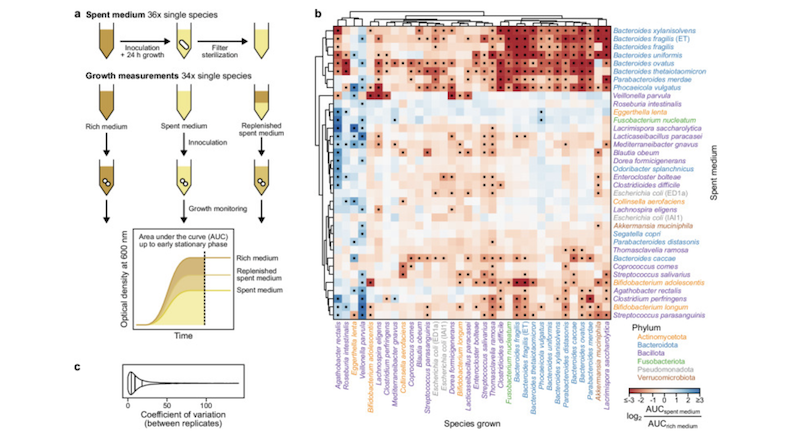
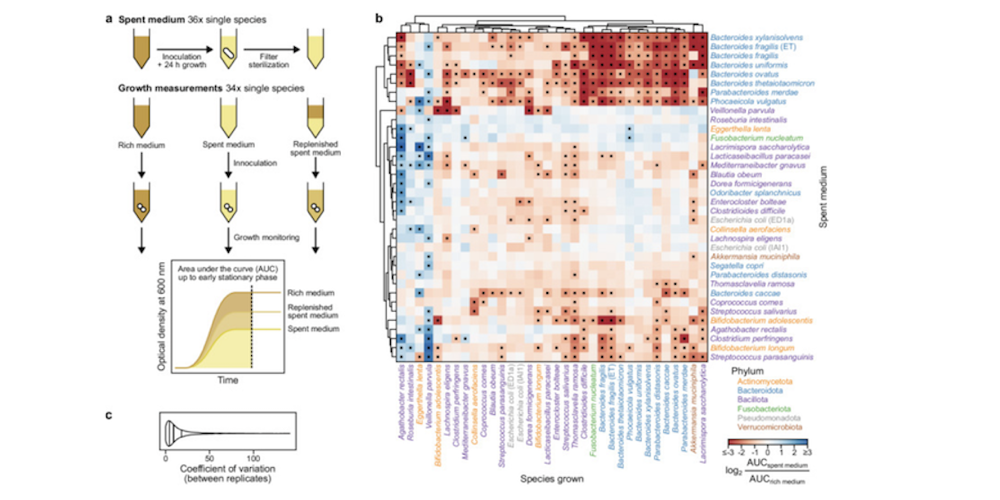
Tweaks to images and text
changes for consistency in formatting (image, capitalisation, spelling), and also shortened title and descriptions

diff --git a/content/english/highlights/growth_interaction_mapping.md b/content/english/highlights/growth_interaction_mapping.md
@@ -1,10 +1,10 @@
 ---
-title: Mapping Growth Interactions in the Human Gut Microbiome Reveals Key Roles for Extracellular Vesicles and Environmental pH
+title: Investigating growth interactions in the human gut microbiome
 date: 2026-09-24
-summary: Systematic profiling of human gut bacteria reveals predominantly inhibitory growth interactions while identifying extracellular vesicles and pH modulation as mechanisms that can promote the growth of specific microbial species.
+summary: Systematic profiling of human gut bacteria reveals predominantly inhibitory growth interactions, although some factors did promote growth.
 banner: /highlights/banners/growth_interaction.png
 banner_large: /highlights/banners/growth_interaction.png
-banner_caption: "Figure 1 (a,b,c) of Buyanbadrakh et al. (2026)"
+banner_caption: "Figure 1 from Buyanbadrakh et al. (2026)"
 highlights_topics: [Infectious diseases]
 tags:
   [
@@ -22,11 +22,11 @@ tags:
 images: [/highlights/banners/growth_interaction.png]
 ---
 
-The human gut microbiome is a complex microbial ecosystem in which hundreds of bacterial species interact with one another and their surrounding environment. These interactions can determine which species successfully colonize the gut and influence the stability and resilience of the microbial community. Bacteria can compete for nutrients, release inhibitory compounds, exchange metabolites, or modify environmental conditions such as pH. Understanding these interactions is therefore important for predicting microbiome composition and, ultimately, developing approaches to manipulate microbial communities.
+The human gut microbiome is a complex microbial ecosystem in which hundreds of bacterial species interact with one another and their surrounding environment. These interactions can determine which species successfully colonise the gut and influence the stability and resilience of the microbial community. Bacteria can compete for nutrients, release inhibitory compounds, exchange metabolites, or modify environmental conditions, such as pH. Understanding these interactions is therefore important for predicting microbiome composition and, ultimately, developing approaches to manipulate microbial communities.
 
-[Buyanbadrakh _et al._ (2026)](https://www.nature.com/articles/s41467-026-76526-z) systematically investigated growth interactions among 36 representative bacterial strains from the human gut microbiome, spanning six major bacterial phyla. The researchers used a spent-medium approach, in which each bacterial strain was first grown for 24 hours before the cell-free spent medium was collected. Each strain was subsequently grown in the spent medium produced by every other strain, and bacterial growth was monitored for 48 hours by measuring optical density. This resulted in a large-scale dataset comprising 1,224 binary growth interactions.
+[Buyanbadrakh _et al._ (2026)](https://www.nature.com/articles/s41467-026-76526-z) systematically investigated growth interactions among 36 representative bacterial strains from the human gut microbiome, spanning six major bacterial phyla. A spent-medium approach was used, in which each bacterial strain was first grown for 24 hours before the cell-free spent medium was collected. Each strain was subsequently grown in the spent medium produced by every other strain, and bacterial growth was monitored for 48 hours by measuring optical density. This resulted in a large-scale dataset comprising 1,224 binary growth interactions.
 
-The interaction map revealed that inhibitory interactions were considerably more common than growth-promoting interactions. Using a two-fold change in growth as the threshold, 307 interactions (25.1%) were inhibitory, whereas only 51 (4.2%) promoted bacterial growth. When nutrients were replenished in the spent medium, inhibitory interactions decreased more than eight-fold, from 307 to 38. This suggests that many negative interactions arise from nutrient depletion or environmental changes caused by bacterial growth rather than from the production of specific antimicrobial compounds. In contrast, nearly half of the growth-promoting interactions persisted after nutrient replenishment, suggesting that metabolic cross-feeding may contribute to some positive interactions.
+The interaction map revealed that inhibitory interactions were considerably more common than growth-promoting interactions. Using a two-fold change in growth as the threshold, 307 interactions (25.1%) were inhibitory, whereas only 51 (4.2%) promoted bacterial growth. When nutrients were replenished in the spent medium, inhibitory interactions decreased more than eight-fold, from 307 to 38. This suggests that many negative interactions arise from nutrient depletion or environmental changes caused by bacterial growth, rather than from the production of specific antimicrobial compounds. In contrast, nearly half of the growth-promoting interactions persisted after nutrient replenishment, suggesting that metabolic cross-feeding may contribute to some positive interactions.
 
 One particularly interesting positive interaction involved _Clostridium perfringens_ and _Mediterraneibacter gnavus_. The growth of _M. gnavus_ increased in spent medium produced by _C. perfringens_. Proteomic analysis indicated changes in nucleotide-related pathways, prompting the researchers to investigate how _C. perfringens_ might provide growth-promoting components. They found extracellular vesicles in the _C. perfringens_ spent medium and demonstrated that an isolated vesicle fraction increased _M. gnavus_ growth approximately 1.4-fold. The growth-promoting effect disappeared after heat treatment of the vesicles, indicating that vesicle integrity or heat-sensitive components carried within them are important for the interaction. The experiments therefore identify extracellular vesicles as a mechanism through which one gut bacterial species can promote the growth of another.
 
@@ -50,7 +50,7 @@ By systematically mapping interactions among human gut bacteria and investigatin
 
 #### Code
 
-The code to reproduce the growth assay data analysis is available on [Github](https://github.com/mateuslab-prot/SpeciesSpeciesInteractions).
+The code to reproduce the growth assay data analysis is available on [GitHub](https://github.com/mateuslab-prot/SpeciesSpeciesInteractions).
 
 #### Article
 

diff --git a/content/english/updates/growth_interaction.md b/content/english/updates/growth_interaction.md
@@ -1,0 +1,19 @@
+---
+title: "New data highlight on investigating growth interactions in the human gut microbiome"
+date: 2026-09-24
+summary: Systematic profiling of human gut bacteria reveals predominantly inhibitory growth interactions, although some factors did promote growth.
+banner: /highlights/banners/growth_interaction.png
+banner_caption: "Figure 1 (a,b,c) of Buyanbadrakh et al. (2026)"
+---
+
+Our latest data highlight, "[Investigating growth interactions in the human gut microbiome](/highlights/growth_interaction_mapping/)", presents the work of [Buyanbadrakh _et al._ (2026)](https://www.nature.com/articles/s41467-026-76526-z). This study systematically maps growth interactions among 36 representative bacterial strains from the human gut microbiome, providing a comprehensive dataset of how gut bacteria can inhibit or promote the growth of other species.
+
+To systematically investigate these interactions, [Buyanbadrakh _et al._ (2026)](https://www.nature.com/articles/s41467-026-76526-z) used a spent-medium approach to examine 1,224 binary interactions among gut bacterial strains spanning six major phyla. Most strong interactions were inhibitory; 307 interactions reduced growth by at least two-fold, compared with 51 that promoted growth. Nutrient replenishment reduced the number of inhibitory interactions more than eight-fold, indicating that resource depletion and changes to the extracellular environment are major drivers of growth inhibition.
+
+The study also identified specific mechanisms underlying positive microbial interactions. For example, _Clostridium perfringens_ promoted the growth of _Mediterraneibacter gnavus_ through extracellular vesicles, demonstrating a potential mechanism for transferring growth-enhancing components between gut bacteria. In addition, _Veillonella parvula_ was found to increase environmental pH and thereby rescue the growth of the acid-sensitive bacterium _Parabacteroides merdae_. This pH-modulating effect was enhanced by guanine and persisted in multi-species communities containing different acidifying bacteria.
+
+By combining systematic interaction profiling with proteomics, metabolomics, and community experiments, this work provides both a valuable dataset of human gut bacterial interactions and mechanistic insights into how individual species can shape their microbial environment. The findings highlight how processes such as extracellular-vesicle-mediated interactions and local pH modulation can influence community composition, providing a foundation for predicting microbiome behaviour and developing strategies for the rational manipulation of gut microbial communities.
+
+To find out more about the study, please read the [data highlight](/highlights/growth_interaction_mapping/).
+
+If you are interested in having your work in the areas of pandemic preparedness and/or infectious disease promoted on the portal, please [contact](/contact/) the portal team.

diff --git a/content/english/highlights/giardia_duodenalis_tracking.md b/content/english/highlights/giardia_duodenalis_tracking.md
@@ -1,5 +1,5 @@
 ---
-title: A New MLST Scheme for Tracking Giardia duodenalis Assemblage B Outbreaks
+title: A new MLST scheme for tracking Giardia duodenalis assemblage B outbreaks
 date: 2026-08-27
 summary: A novel seven-marker MLST scheme enhances molecular typing of Giardia duodenalis assemblage B, improving outbreak detection and epidemiological surveillance.
 banner: /highlights/banners/MLST_scheme.png
